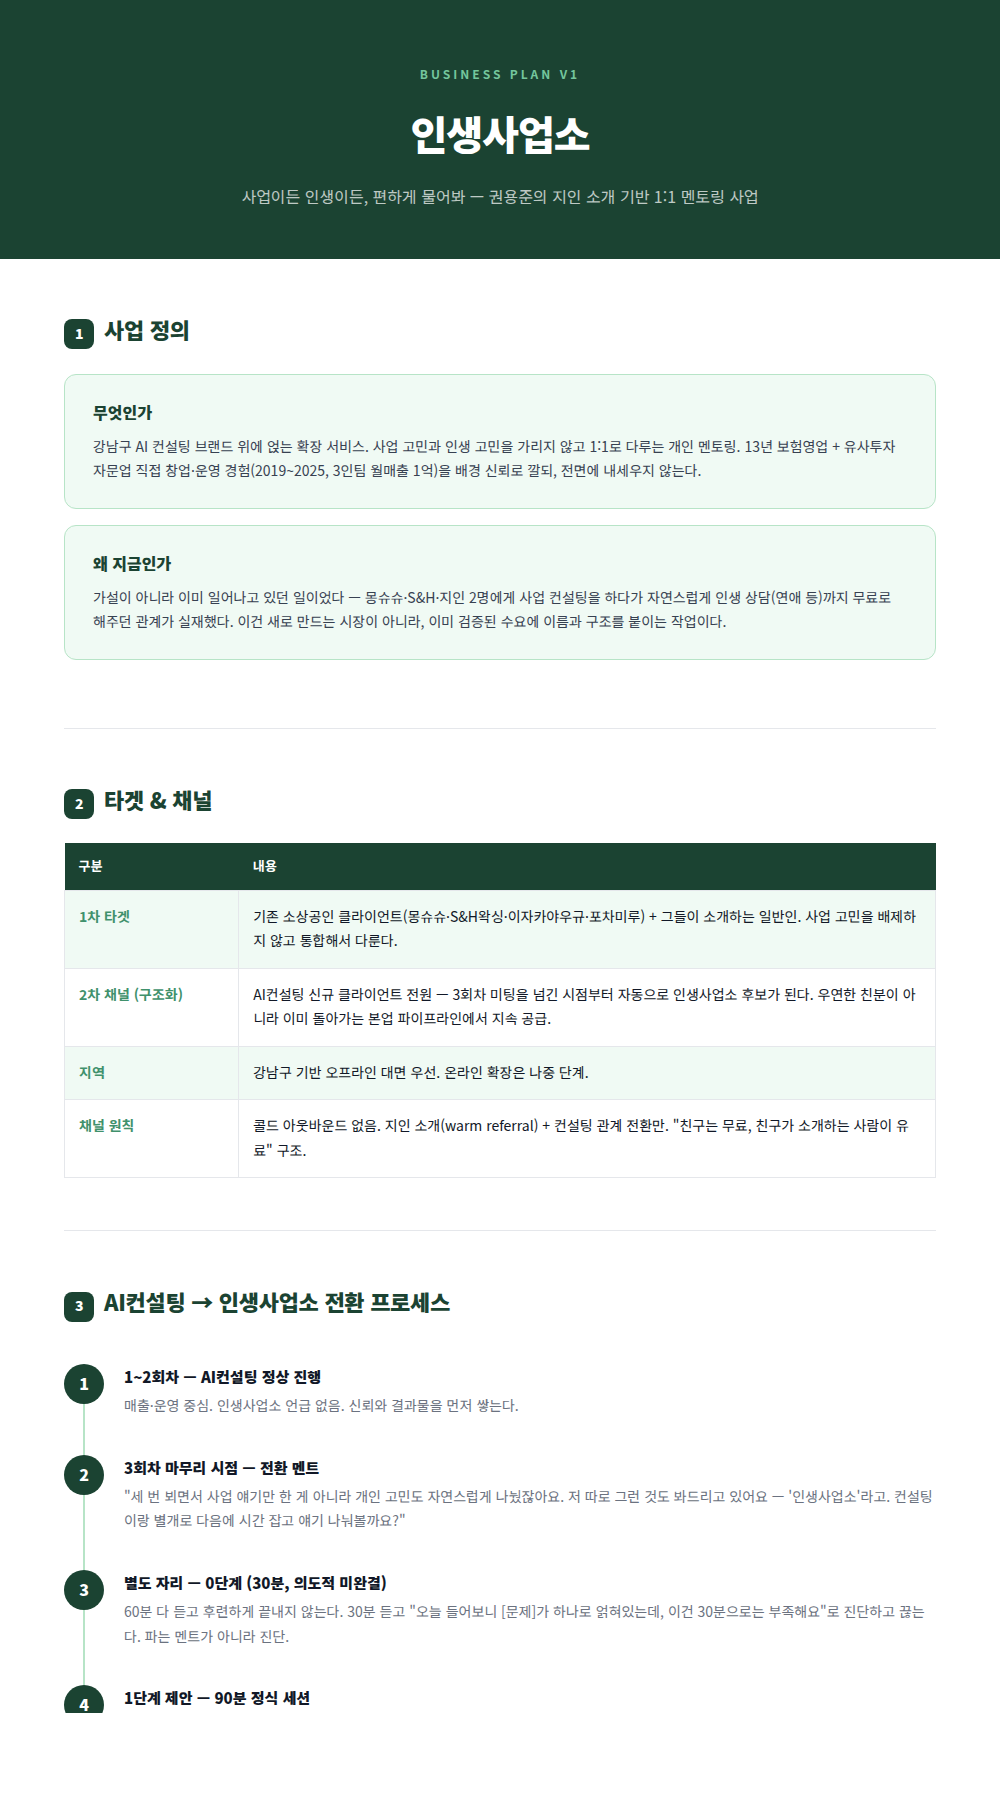
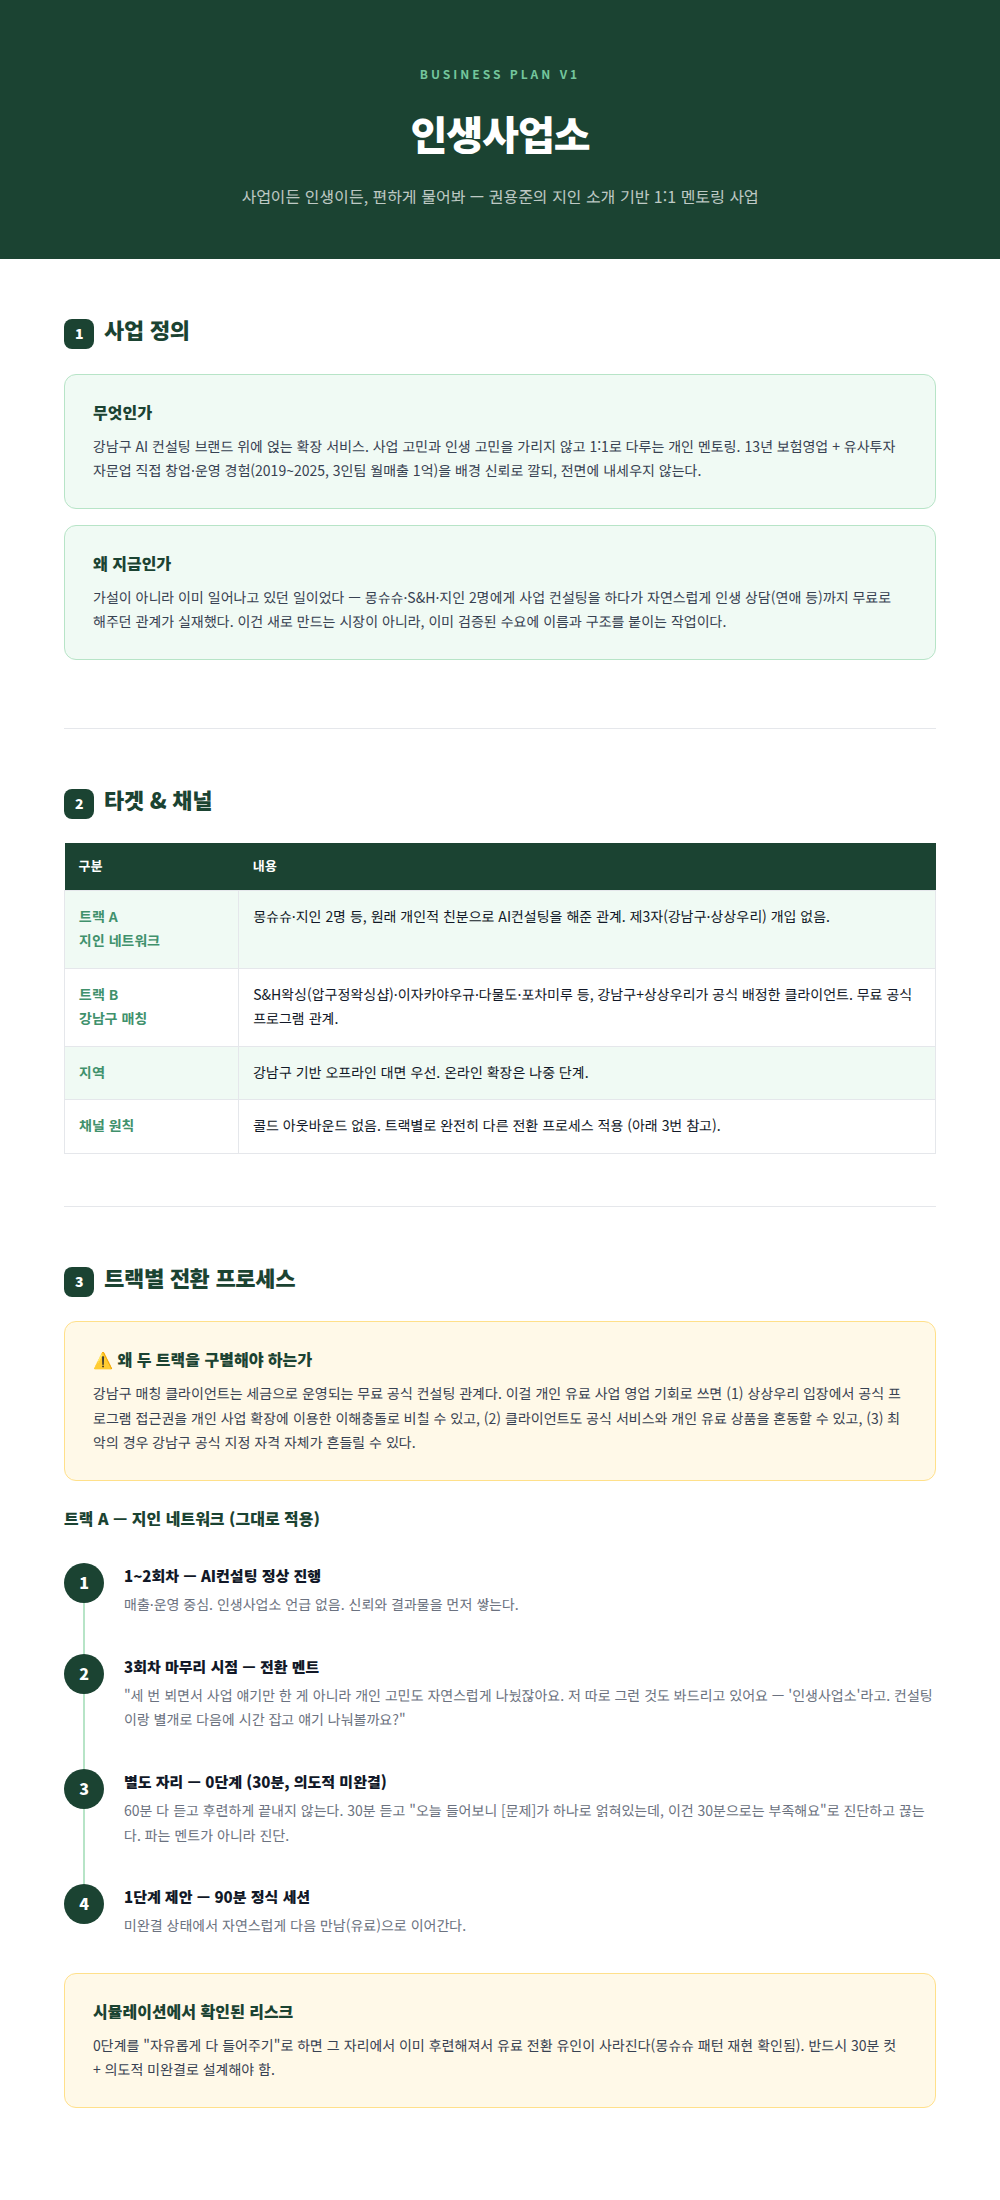
Split 인생사업소 conversion process into two tracks
지인 네트워크 (트랙A, no third party involved) vs 강남구 매칭
(트랙B, publicly-funded official program clients) need different
rules. Reusing the 3-session conversion script on 강남구-matched
clients risks looking like a conflict of interest — using free,
tax-funded consulting access to sell a private paid service. Track B
now defaults to: never proactively pitch during the official
engagement, respond humanly if personal topics come up organically
but don't monetize in the moment, and only reach out separately well
after the official program ends — pending confirmation that
상상우리 has no policy against it.

Claude-Session: https://claude.ai/code/session_01MPanYn6wbRxXi8vgxmF799

Changed region(s): [[0.0, 0.0311, 1.0, 0.9644], [0.899, 0.7467, 0.93, 0.7778], [0.806, 0.7467, 0.837, 0.7778]]

diff --git a/insaengsaeopso/business-plan.html b/insaengsaeopso/business-plan.html
@@ -89,15 +89,21 @@
   <h2><span class="num">2</span>타겟 &amp; 채널</h2>
   <table>
     <tr><th width="20%">구분</th><th>내용</th></tr>
-    <tr><td class="stage">1차 타겟</td><td>기존 소상공인 클라이언트(몽슈슈·S&amp;H왁싱·이자카야우규·포차미루) + 그들이 소개하는 일반인. 사업 고민을 배제하지 않고 통합해서 다룬다.</td></tr>
-    <tr><td class="stage">2차 채널 (구조화)</td><td>AI컨설팅 신규 클라이언트 전원 — 3회차 미팅을 넘긴 시점부터 자동으로 인생사업소 후보가 된다. 우연한 친분이 아니라 이미 돌아가는 본업 파이프라인에서 지속 공급.</td></tr>
+    <tr><td class="stage">트랙 A<br>지인 네트워크</td><td>몽슈슈·지인 2명 등, 원래 개인적 친분으로 AI컨설팅을 해준 관계. 제3자(강남구·상상우리) 개입 없음.</td></tr>
+    <tr><td class="stage">트랙 B<br>강남구 매칭</td><td>S&amp;H왁싱(압구정왁싱샵)·이자카야우규·다물도·포차미루 등, 강남구+상상우리가 공식 배정한 클라이언트. 무료 공식 프로그램 관계.</td></tr>
     <tr><td class="stage">지역</td><td>강남구 기반 오프라인 대면 우선. 온라인 확장은 나중 단계.</td></tr>
-    <tr><td class="stage">채널 원칙</td><td>콜드 아웃바운드 없음. 지인 소개(warm referral) + 컨설팅 관계 전환만. "친구는 무료, 친구가 소개하는 사람이 유료" 구조.</td></tr>
+    <tr><td class="stage">채널 원칙</td><td>콜드 아웃바운드 없음. 트랙별로 완전히 다른 전환 프로세스 적용 (아래 3번 참고).</td></tr>
   </table>
 </section>
 
 <section>
-  <h2><span class="num">3</span>AI컨설팅 → 인생사업소 전환 프로세스</h2>
+  <h2><span class="num">3</span>트랙별 전환 프로세스</h2>
+  <div class="card" style="border-color:#FFE08A;background:#FFF9E8;margin-bottom:24px">
+    <h3>⚠ 왜 두 트랙을 구별해야 하는가</h3>
+    <p>강남구 매칭 클라이언트는 세금으로 운영되는 무료 공식 컨설팅 관계다. 이걸 개인 유료 사업 영업 기회로 쓰면 (1) 상상우리 입장에서 공식 프로그램 접근권을 개인 사업 확장에 이용한 이해충돌로 비칠 수 있고, (2) 클라이언트도 공식 서비스와 개인 유료 상품을 혼동할 수 있고, (3) 최악의 경우 강남구 공식 지정 자격 자체가 흔들릴 수 있다.</p>
+  </div>
+
+  <h3 style="font-size:16px;font-weight:900;color:var(--gd);margin-bottom:12px">트랙 A — 지인 네트워크 (그대로 적용)</h3>
   <div class="flow">
     <div class="fstep">
       <div class="fnum">1</div>
@@ -117,8 +123,28 @@
     </div>
   </div>
   <div class="card" style="margin-top:16px;border-color:#FFE08A;background:#FFF9E8">
-    <h3>⚠ 시뮬레이션에서 확인된 리스크</h3>
+    <h3>시뮬레이션에서 확인된 리스크</h3>
     <p>0단계를 "자유롭게 다 들어주기"로 하면 그 자리에서 이미 후련해져서 유료 전환 유인이 사라진다(몽슈슈 패턴 재현 확인됨). 반드시 30분 컷 + 의도적 미완결로 설계해야 함.</p>
+  </div>
+
+  <h3 style="font-size:16px;font-weight:900;color:var(--gd);margin:32px 0 12px">트랙 B — 강남구 매칭 (보수적 원칙)</h3>
+  <div class="flow">
+    <div class="fstep">
+      <div class="fnum">1</div>
+      <div class="fbody"><h4>공식 프로그램 기간 중 — 절대 먼저 권유하지 않음</h4><p>3회차든 몇 회차든, 인생사업소를 먼저 꺼내지 않는다. 공식 서비스와 개인 유료 상품의 경계를 흐리지 않는 것이 최우선.</p></div>
+    </div>
+    <div class="fstep">
+      <div class="fnum">2</div>
+      <div class="fbody"><h4>개인적인 얘기가 자발적으로 나올 때 — 인간적으로만 반응</h4><p>몽슈슈 패턴처럼 상대가 먼저 인생 고민을 꺼내는 건 막을 수 없고 막을 필요도 없다. 다만 그 자리에서 사업화하지 않는다. 그냥 사람 대 사람으로 들어준다.</p></div>
+    </div>
+    <div class="fstep">
+      <div class="fnum">3</div>
+      <div class="fbody"><h4>공식 프로그램 완전 종료 후 — 시간을 두고 별도 접촉</h4><p>모든 공식 세션이 끝나고 시간이 지난 뒤, 프로그램과 무관해 보이는 시점에 개인적으로 연락. "그때 얘기 잘 들었다, 혹시 관심 있으면..." 정도로 매우 조심스럽게.</p></div>
+    </div>
+    <div class="fstep">
+      <div class="fnum">4</div>
+      <div class="fbody"><h4>상상우리 정책 확인 (선행 필요)</h4><p>공식 매칭 클라이언트에게 개인 유료 서비스를 제안하는 것 자체에 대해 상상우리 측 가이드라인이 있는지 먼저 확인. 확인 전까지는 트랙 B는 전면 보류 상태로 취급.</p></div>
+    </div>
   </div>
 </section>
 
@@ -174,12 +200,13 @@
 <section style="border-bottom:none">
   <h2><span class="num">7</span>다음 액션</h2>
   <div class="checklist">
-    <div class="ck"><div class="box"></div>몽슈슈·S&amp;H·지인 2명에게 자연스럽게 소개 요청 ("주변에 이런 얘기 상대 필요한 사람 있어?")</div>
-    <div class="ck"><div class="box"></div>소개/전환 들어오면 인생사업소 카톡 카드 전달</div>
-    <div class="ck"><div class="box"></div>0단계 대면 30분 컷 + 의도적 미완결로 진행 (60분 다 들어주지 않기)</div>
-    <div class="ck"><div class="box"></div>자연스러운 타이밍에 1단계(90분 세션) 제안</div>
-    <div class="ck"><div class="box"></div>신규 AI컨설팅 클라이언트는 3회차 마무리 시점에 전환 멘트 적용</div>
-    <div class="ck"><div class="box"></div>1단계 유료 전환 2~3명 쌓이면 2단계 가격 재검증</div>
+    <div class="ck"><div class="box"></div>[트랙A] 몽슈슈·지인 2명에게 자연스럽게 소개 요청 ("주변에 이런 얘기 상대 필요한 사람 있어?")</div>
+    <div class="ck"><div class="box"></div>[트랙A] 소개/전환 들어오면 인생사업소 카톡 카드 전달</div>
+    <div class="ck"><div class="box"></div>[트랙A] 0단계 대면 30분 컷 + 의도적 미완결로 진행 (60분 다 들어주지 않기)</div>
+    <div class="ck"><div class="box"></div>[트랙A] 자연스러운 타이밍에 1단계(90분 세션) 제안</div>
+    <div class="ck"><div class="box"></div>[트랙A] 1단계 유료 전환 2~3명 쌓이면 2단계 가격 재검증</div>
+    <div class="ck"><div class="box"></div>[트랙B] 상상우리 측에 개인 유료 서비스 제안 관련 정책 확인 — 확인 전까지 트랙B 전면 보류</div>
+    <div class="ck"><div class="box"></div>[트랙B] S&amp;H·이자카야우규·다물도·포차미루는 공식 프로그램 기간 중 먼저 권유 금지</div>
   </div>
 </section>
 
